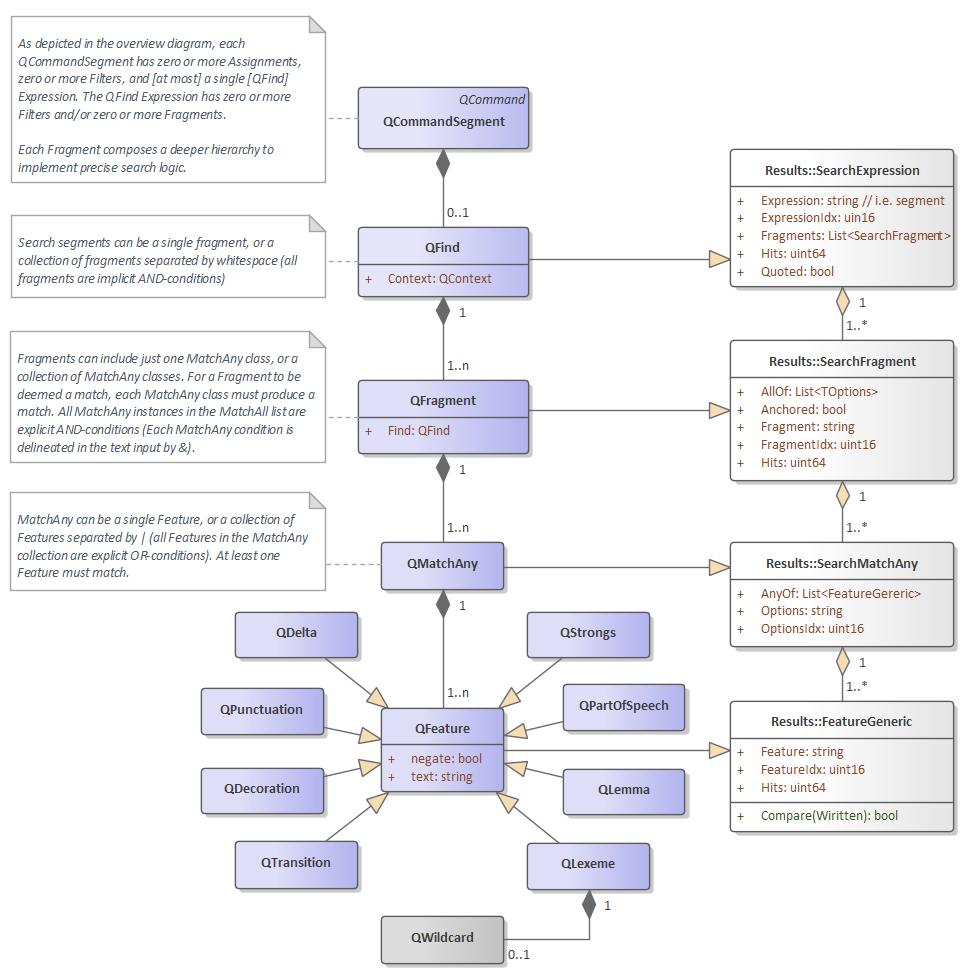
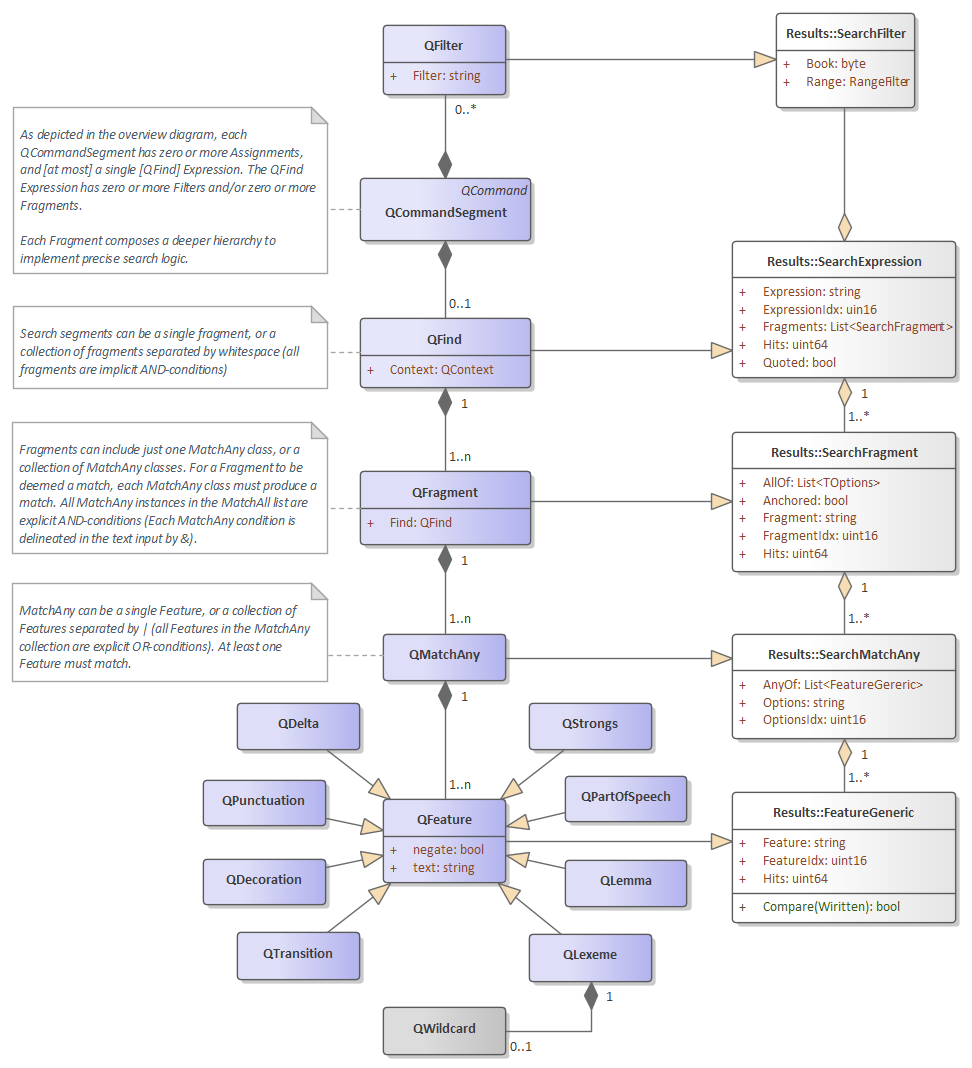
Better formalism for relationships between Q* classes and QueryResult hierarchy

diff --git a/README.md b/README.md
@@ -71,9 +71,9 @@ The QFind object depicted above is almost a framework in itself. Figure 3-2 prov
 
 ### AV-Search Internals
 
-QFind class inherits SearchExpression. Most levels inherit from the result objects for easier interop between the AV-Engine, Blueprint-Blue, AV-Search libraries.  The full QueryResult object hierarchy, depicted in Figure 3-3, simplifies  rendering and highlighting for downstream clients of AV-Engine. There are exactly two phases for each query. AV-Search returns a bare-bones TQuery object in phase one.  AV-Search subsequently populates TChapter hierarchies on demand per chapter in the subsequent phase. All calls from AV-Engine to AV-Search are in-process. An earlier experience, but unfinished at [github.com/AV-Text/AVX]() is a similar design that utilizes serialization and native C++ code. That experiment has been tabled for now in favor of a fully .NET 8 library stack.
+As seen in Figure 3-2, the QFind class inherits SearchExpression. Most levels inherit from the result objects for easier interop between Blueprint-Blue and AV-Search with AV-Engine.  The full QueryResult object hierarchy, depicted in Figure 3-3, streamlines rendering and highlighting operations for downstream clients of AV-Engine. There are exactly two phases for each query: First. AV-Search returns a bare-bones QueryResult.  Subsequent calls to AV-Search populate QueryChapter hierarchy, on demand per chapter/request. All calls from AV-Engine to AV-Search are in-process. An earlier experiment, utilizedis a similar design that required serialization and native C++ code (It is unfinished, but available for review at [github.com/AV-Text/AVX]() ). That experiment has been tabled for now in favor of a fully .NET 8 library stack.
 
-Figure 3-3 also reveals the two-phase approach to queries. The query summary is represented by the QueryResult hierarchy. The purple objects are the per-chapter requests to populate specific QueryChapter instances upon demand.  The Dark Gray box is not serialized; instead, it manages access to instantiated queries. 
+Figure 3-3 more deeply reveals the two-phase nature for query requests. The query summary is represented by the QueryResult hierarchy. The purple objects are the per-chapter requests to populate specific QueryChapter instances upon demand.  The Dark Gray box is not part of the Query itself; instead, it manages access to instantiated queries. The design is forward looking for when AV-Engine sits behind a REST service. The QueryManager is not currently implemented in the in-proc implementations.
 
 ![](AVX-Results.png)
 
